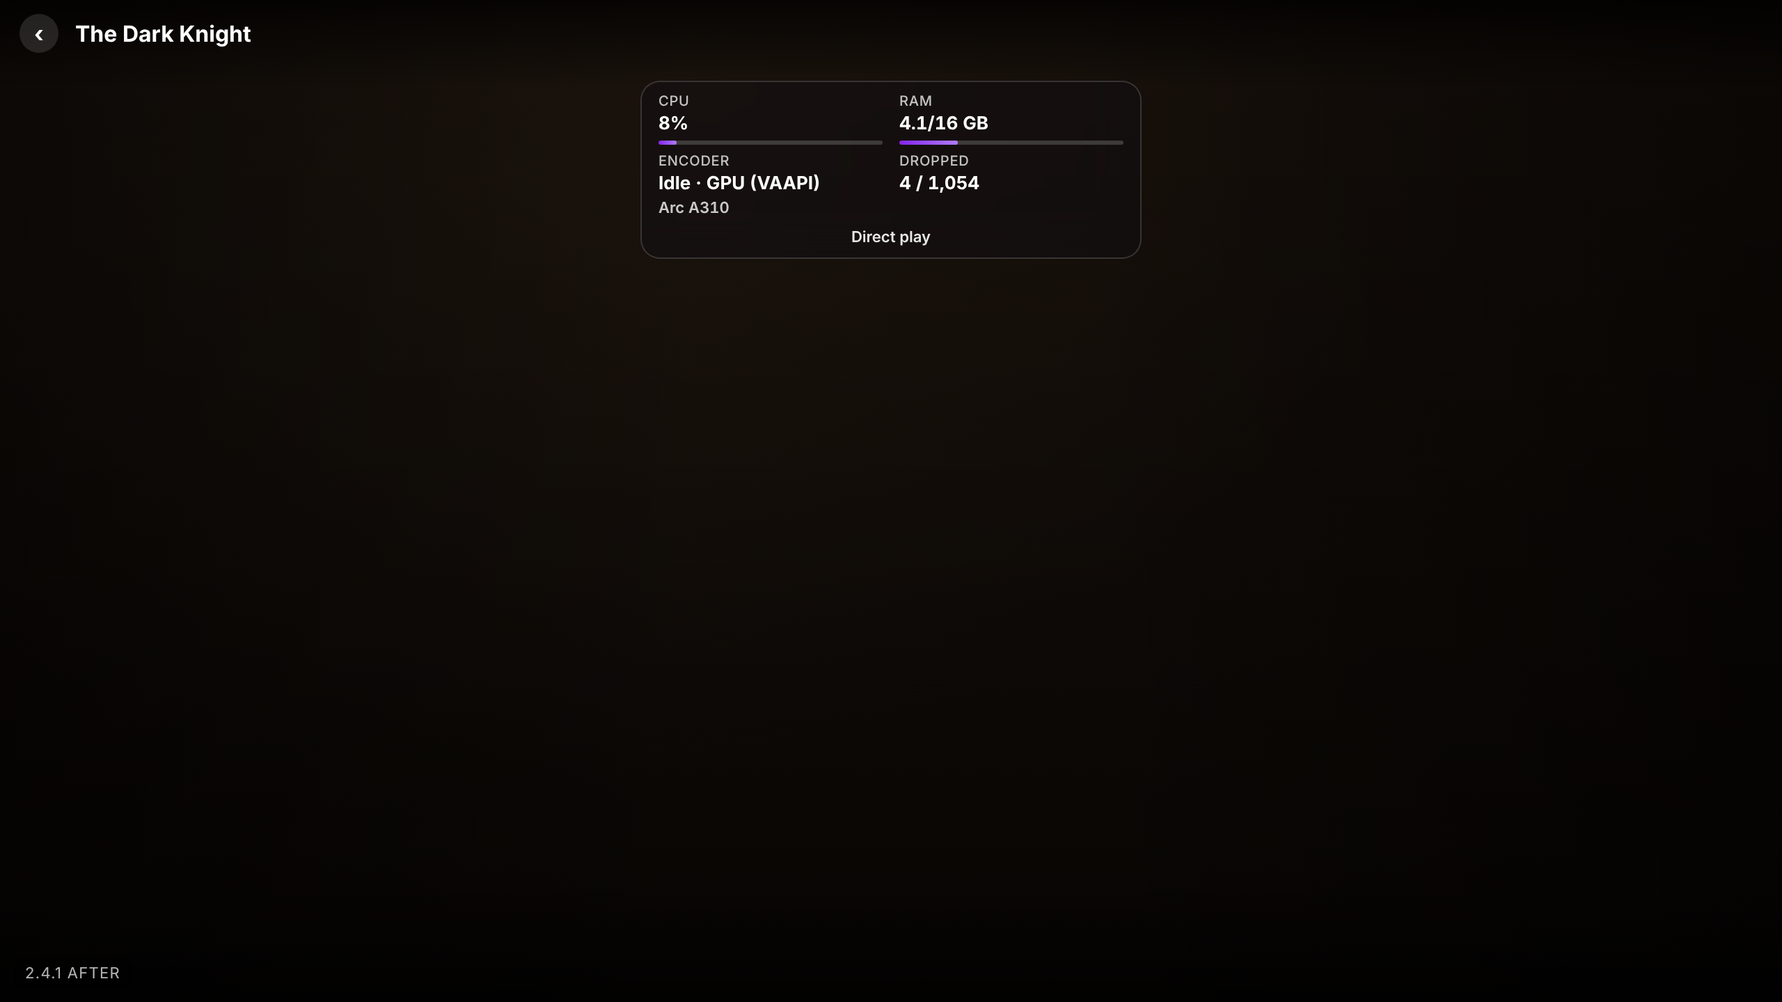
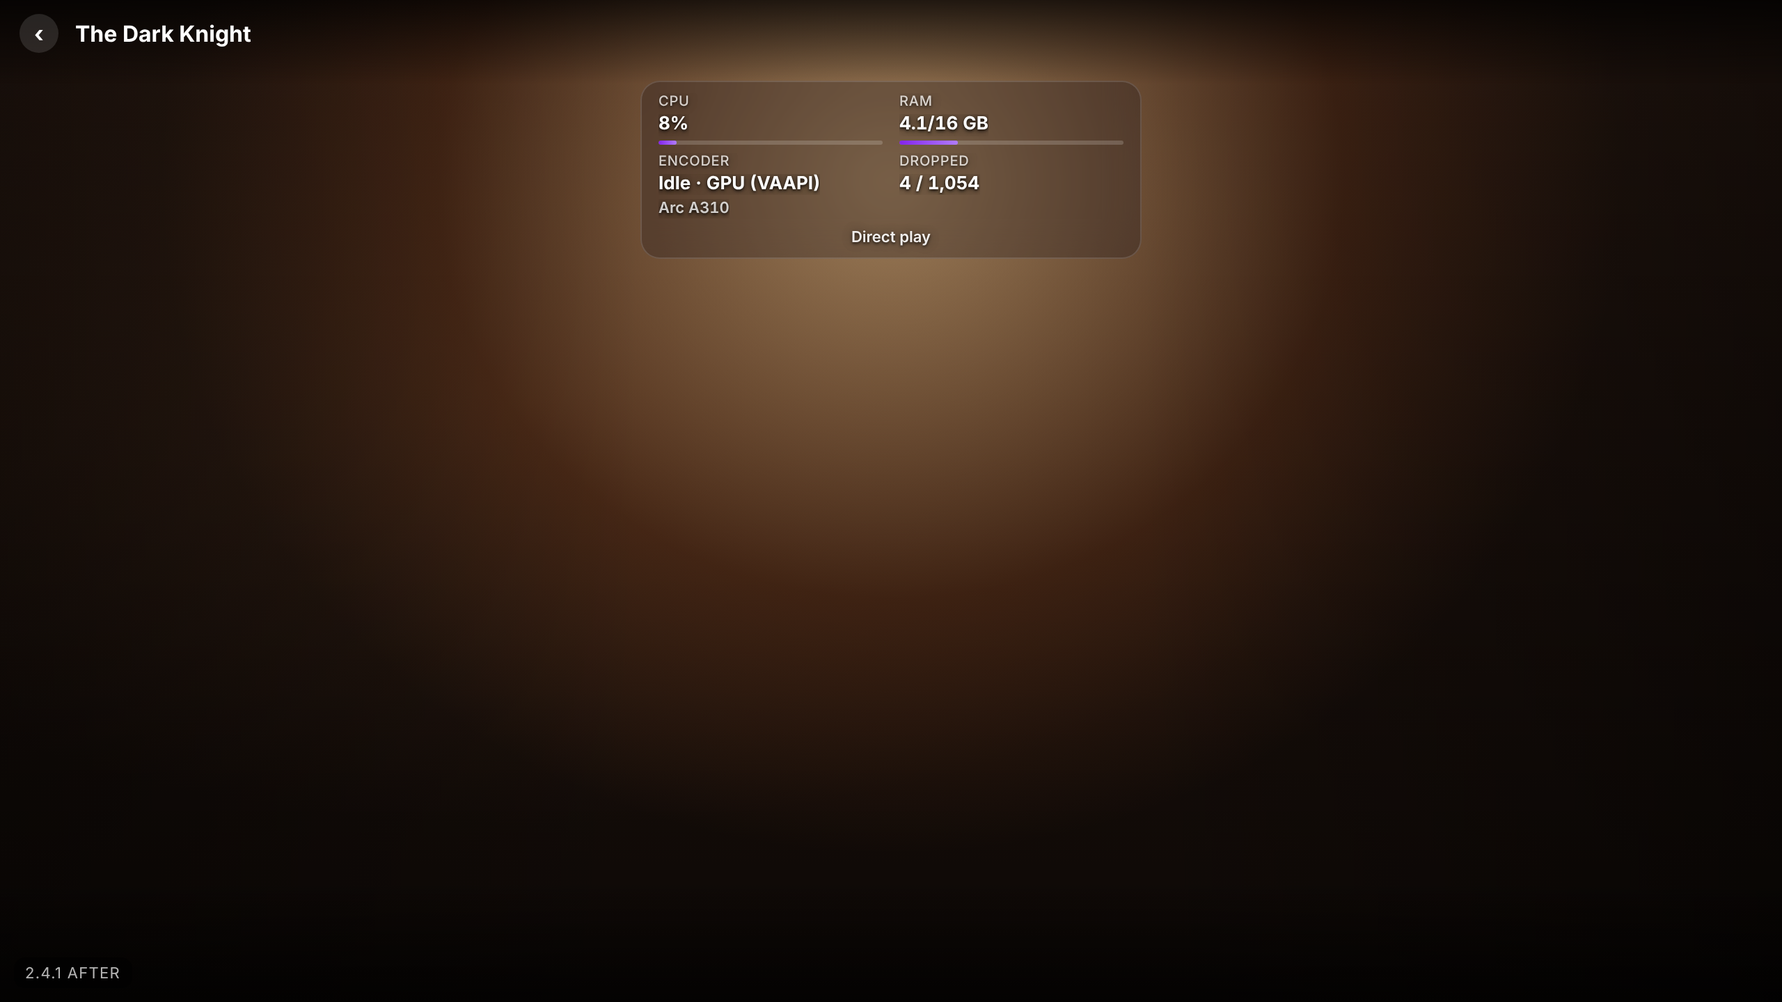
Movinite 2.4.1: make the player stats overlay more see-through
Lower the overlay fill from 38% to about 26%, keep a light backdrop
blur, and add a text shadow so CPU, RAM, Encoder and Dropped stay
readable on a bright scene. The Encoder/Dropped overlap fix is
unchanged. Still server-only.

diff --git a/server/app/static/style.css b/server/app/static/style.css
@@ -147,12 +147,14 @@ td .btn{margin:0 4px 4px 0}
 @media (min-width:821px){.pl-big{width:76px;height:76px}.pl-big.pl-pp{width:92px;height:92px}.pl-big svg{width:38px;height:38px}}
 /* see-through server status, top right of the picture; fades with the buttons */
 /* 1.7.5: glass stats panel under the title bar (top center, 2x2), fades with the controls.
-   The panel is see-through; the GPU badge stays the solid purple pill. */
+   The panel is see-through; the GPU badge stays the solid purple pill.
+   2.4.1: lighter fill (~26%) and a text shadow so the movie stays visible and labels stay readable. */
 .pl-ss{position:absolute;top:calc(var(--pltop,56px) + 2px);left:50%;transform:translateX(-50%);right:auto;z-index:3;
   display:grid;grid-template-columns:minmax(0,1fr) minmax(0,1fr);gap:6px 12px;padding:8px 12px;border-radius:14px;
   width:min(360px,calc(100% - 24px));max-width:min(360px,calc(100% - 24px));min-width:0;box-sizing:border-box;
-  font-size:12px;line-height:1.2;color:#fff;background:rgba(16,12,22,.38);-webkit-backdrop-filter:blur(14px);backdrop-filter:blur(14px);
-  border:1px solid rgba(255,255,255,.16);pointer-events:none;opacity:0;transition:opacity .25s ease;font-variant-numeric:tabular-nums}
+  font-size:12px;line-height:1.2;color:#fff;background:rgba(16,12,22,.26);-webkit-backdrop-filter:blur(12px);backdrop-filter:blur(12px);
+  border:1px solid rgba(255,255,255,.14);pointer-events:none;opacity:0;transition:opacity .25s ease;font-variant-numeric:tabular-nums;
+  text-shadow:0 1px 2px rgba(0,0,0,.85),0 0 8px rgba(0,0,0,.5)}
 .player.ov-on .pl-ss{opacity:1}
 .pl-ss .k{opacity:.75;font-weight:500;font-size:10px;letter-spacing:.04em;text-transform:uppercase}
 .pl-ss b{font-weight:700;font-size:13px}

diff --git a/server/tests/test_v175.py b/server/tests/test_v175.py
@@ -103,8 +103,11 @@ def main():
           "stats panel is a 2x2 grid")
     check("left:50%;transform:translateX(-50%)" in css[css.index(".pl-ss{"):css.index(".pl-ss{") + 400],
           "stats panel sits top-center under the title bar")
-    check("background:rgba(16,12,22,.38)" in css and "backdrop-filter:blur(14px)" in css[css.index(".pl-ss{"):css.index(".pl-ss{") + 700],
-          "stats panel uses a glass / translucent background")
+    import re
+    bg = re.search(r"background:rgba\(16,12,22,\.(0?\d+)\)", chunk)
+    check(bg and 18 <= int(bg.group(1)) <= 45, "stats panel uses a glass / translucent background")
+    check("backdrop-filter:blur(" in chunk and "text-shadow:" in chunk,
+          "stats panel keeps a subtle blur and a text shadow")
     check(".player.ov-on .pl-ss{opacity:1}" in css, "stats panel fades with the other controls")
     check(".pl-ss .hw-badge{background:var(--acc-fill);color:var(--on-acc)" in css,
           "GPU badge stays the solid purple pill")

diff --git a/server/tests/test_v241.py b/server/tests/test_v241.py
@@ -69,6 +69,13 @@ def test_overlay_layout():
           "narrow phone widths tighten the panel gap")
     check("white-space:nowrap" in CSS[CSS.index(".pl-ss-fr{"):CSS.index(".pl-ss-fr{") + 280],
           "the dropped-only pill still stays on one line")
+    import re
+    bg = re.search(r"background:rgba\(16,12,22,\.(\d+)\)", rule)
+    got = bg.group(1) if bg else "?"
+    check(bg and 18 <= int(bg.group(1)) <= 32,
+          "the stats panel fill is more see-through than the old 38 percent, now ." + got)
+    check("text-shadow:" in rule, "labels have a text shadow so they stay readable on a bright scene")
+    check("backdrop-filter:blur(" in rule, "a subtle backdrop blur is still applied")
 
 
 def test_render_uses_short_name():

diff --git a/README.md b/README.md
@@ -99,7 +99,7 @@ On servers with a supported video card, transcoding can run on the GPU.
 <img src="docs/screenshots/phone-offline-playing.png" width="200" alt="Phone playing a download offline">
 </p>
 
-*The screenshots use generated test media, placeholder posters, and made-up names at example.com. The 4K quality-menu shot was taken with **Cap quality to this screen** turned off, so 4K options stay visible; the tablet shot shows the default cap at 1080p. The 1.9 shots show Users and Invite, Email (Gmail app password), Activity, signed-in devices, Trusted proxies, and the join page, with documentation addresses such as 192.0.2.10. The 1.9.1 shot shows the Home row on a 1920×1080 television with the purple D-pad focus ring on a poster. The 2.0 shots show the 4K TV home and a movie page with Resume focused, the Downloads tab, the download dialog, Settings > Downloads, and the offline screens. The 2.0.1 shots show the video player on a television with the settings gear focused, and the settings menu open with an option focused. The 2.0.2 shots show TV sign-in with a short code and QR code, approving it from a phone, and reaching Sign out with the remote. The 2.1 shots show the Plex-style TV home and slide-out menu (libraries labelled with their source, including a library shared by another server) and Settings > Sharing. The 2.1.1 shots show a signed-out television with only the phone-code sign-in screen, and the top bar (TV tab bar and desktop header) in the same dark color as the side menu. The 2.1.2 shots show the TV tab bar transparent over the backdrop, the slide-out menu with Sign out, and a movie page opened at the top with Resume or Play focused. The 2.1.3 shots show the signed-out TV phone-code sign-in screen and the password fallback. The 2.2 shots show the player start overlay, the Up Next card, a seek-bar thumbnail, and the Transcoding settings for HDR tone mapping (off by default) and the thumbnail cache. The 2.3 shots show the Skip Intro button on the web and on a television, and image subtitles burned into a transcode. The 2.4 shots are UI mockups of the native Android TV player (controls, subtitle menu, and Skip Intro), not captures from a real television. The 2.4.1 shots show the in-page player stats overlay on a phone, before and after the Encoder column was stopped from running over Dropped.*
+*The screenshots use generated test media, placeholder posters, and made-up names at example.com. The 4K quality-menu shot was taken with **Cap quality to this screen** turned off, so 4K options stay visible; the tablet shot shows the default cap at 1080p. The 1.9 shots show Users and Invite, Email (Gmail app password), Activity, signed-in devices, Trusted proxies, and the join page, with documentation addresses such as 192.0.2.10. The 1.9.1 shot shows the Home row on a 1920×1080 television with the purple D-pad focus ring on a poster. The 2.0 shots show the 4K TV home and a movie page with Resume focused, the Downloads tab, the download dialog, Settings > Downloads, and the offline screens. The 2.0.1 shots show the video player on a television with the settings gear focused, and the settings menu open with an option focused. The 2.0.2 shots show TV sign-in with a short code and QR code, approving it from a phone, and reaching Sign out with the remote. The 2.1 shots show the Plex-style TV home and slide-out menu (libraries labelled with their source, including a library shared by another server) and Settings > Sharing. The 2.1.1 shots show a signed-out television with only the phone-code sign-in screen, and the top bar (TV tab bar and desktop header) in the same dark color as the side menu. The 2.1.2 shots show the TV tab bar transparent over the backdrop, the slide-out menu with Sign out, and a movie page opened at the top with Resume or Play focused. The 2.1.3 shots show the signed-out TV phone-code sign-in screen and the password fallback. The 2.2 shots show the player start overlay, the Up Next card, a seek-bar thumbnail, and the Transcoding settings for HDR tone mapping (off by default) and the thumbnail cache. The 2.3 shots show the Skip Intro button on the web and on a television, and image subtitles burned into a transcode. The 2.4 shots are UI mockups of the native Android TV player (controls, subtitle menu, and Skip Intro), not captures from a real television. The 2.4.1 shots show the in-page player stats overlay on a phone, before and after the Encoder column was stopped from running over Dropped and the box was made more see-through.*
 
 ## Features
 
@@ -111,7 +111,7 @@ On servers with a supported video card, transcoding can run on the GPU.
 - **Playback in the browser:** direct play, remux (including HEVC to fMP4) or HLS transcode with quality choices (360p to 1080p, plus 2K/4K with a GPU). Auto quality prefers direct play or remux over a transcode. Subtitles (`.srt`, embedded) are see-through and stay on after a seek or quality change; pinch to fit or fill the picture on a phone. The music player has a beat-reactive visualizer, playlists with Play and Shuffle (and play-from-track), mute and a reachable volume control, and a 10-band equalizer with presets (including Dynamic). The top bar, mini player and phone tab bar use the same frosted glass as the server status popup.
 - **Hardware transcoding:** Intel VAAPI/QSV (plus AMD VAAPI and NVIDIA NVENC, both untested). Video cards are detected on install. Concurrent 4K streams use extra GPU surfaces and the card's low-power encoder; a stream that cannot stay on the GPU falls back once and stays there, with the reason logged. The same account can play on more than one device at a time.
 - **Home rows** (Continue watching, Recently added, Recommended), My List, search, genres, decades, tags and collections.
-- **Phone layout** with a bottom tab bar and filter sheets, plus an installable web app (PWA) and a native **Android app**. On a television, a D-pad moves a purple focus ring across libraries, poster rows and player controls (1.9.1). Opening a title focuses Resume or Play (1.9.2), and the TV layout is authored at 1920×1080 so a 4K set is not zoomed in. While a film is playing, the remote reaches every player control, including the settings gear at the bottom right (2.0.1). A TV can sign in by scanning a code with a phone that's already signed in, stays signed in, and the remote reaches the account menu and Sign out (2.0.2). On a TV, 2.1 uses a Plex-style home: a backdrop of the focused title, a slim left rail that slides out into a full menu, and tabs across the top. In 2.1.1 a signed-out TV shows only the sign-in screen, sign-in codes are reused until they expire, and the top bar uses the same dark color as the side menu. In 2.1.2 the web header is hidden on a television, the TV tab bar is transparent, moving the remote onto a tab or menu item opens that view without OK (Sign out still needs OK), and opening a title keeps Resume or Play on screen. In 2.1.3 the TV checks for phone approval about every 3 seconds, backs off instead of showing “Too many checks,” and stops checking when you open the password form. In 2.1.4 the first Left from a row focuses the slim left rail and a second Left opens the slide-out; the top tabs are selectable. In 2.4 the Android TV app plays video in a native ExoPlayer (the 2.0.2 app still works against this server with the in-page player). In 2.4.1 the in-page player stats overlay shortens the GPU name so Encoder no longer runs over Dropped.
+- **Phone layout** with a bottom tab bar and filter sheets, plus an installable web app (PWA) and a native **Android app**. On a television, a D-pad moves a purple focus ring across libraries, poster rows and player controls (1.9.1). Opening a title focuses Resume or Play (1.9.2), and the TV layout is authored at 1920×1080 so a 4K set is not zoomed in. While a film is playing, the remote reaches every player control, including the settings gear at the bottom right (2.0.1). A TV can sign in by scanning a code with a phone that's already signed in, stays signed in, and the remote reaches the account menu and Sign out (2.0.2). On a TV, 2.1 uses a Plex-style home: a backdrop of the focused title, a slim left rail that slides out into a full menu, and tabs across the top. In 2.1.1 a signed-out TV shows only the sign-in screen, sign-in codes are reused until they expire, and the top bar uses the same dark color as the side menu. In 2.1.2 the web header is hidden on a television, the TV tab bar is transparent, moving the remote onto a tab or menu item opens that view without OK (Sign out still needs OK), and opening a title keeps Resume or Play on screen. In 2.1.3 the TV checks for phone approval about every 3 seconds, backs off instead of showing “Too many checks,” and stops checking when you open the password form. In 2.1.4 the first Left from a row focuses the slim left rail and a second Left opens the slide-out; the top tabs are selectable. In 2.4 the Android TV app plays video in a native ExoPlayer (the 2.0.2 app still works against this server with the in-page player). In 2.4.1 the in-page player stats overlay shortens the GPU name so Encoder no longer runs over Dropped, and the box is more see-through.
 - **Multiple users** with Admin, Viewer, and Viewer + Downloads roles, per-library access, email invites sent from your own Gmail (or a copyable link and QR code), a signed-in device list, and Settings > Activity (now playing and a timeline). Existing accounts keep their access after the update. A themed server status panel shows CPU and RAM icons and rings, disks, idle GPU, and background cache jobs that pause when you press play.
 - **Library sharing between servers (2.1):** an admin shares one or more libraries with another Movinite server by sending a one-time link and code. After that, the two servers trust each other with signed requests (no central service). Shared libraries appear in the other server's list, search, home and TV menu, labelled with the owner's name. Public addresses must use HTTPS (for example `https://media.example.com`); a LAN address may use plain HTTP (for example `http://192.0.2.10:8099`).
 - **Offline downloads (2.0, Android app):** people with Viewer + Downloads (and admins) can download films and episodes to the app, play them with the phone's network off, and manage devices and quotas from Settings > Downloads or My account. Downloads are encrypted on the phone; licences last 30 days and can be taken back.

diff --git a/server/README.md b/server/README.md
@@ -207,7 +207,7 @@ On a television, Up from the first row reaches the header. Left and Right move a
 
 **2.1.1:** a signed-out television shows only the phone-code (or password) sign-in screen, not the home chrome. Sign-in codes are reused until they expire (10 new codes per address per 10 minutes). The top bar uses the same dark color as the side menu.
 
-**2.4.1:** the in-page player stats overlay shortens the GPU name (for example Arc A310) so Encoder no longer runs over Dropped on a phone. No new app is needed. **2.4:** the Android TV app plays video in a native ExoPlayer (not the web page). It reports real decoder and display capabilities so 4K HEVC, HDR and surround can Direct Play when the television supports them, and the on-screen controls include skip intro, seek thumbnails, Up Next, and audio / subtitle menus. The 2.0.2 app still works against this server, with the in-page player. **2.3:** Skip Intro and Skip Credits buttons appear when an opening or ending is detected (optional auto-skip in Settings > Account). Image subtitles (PGS / VobSub) are burned in on a transcode when you pick them; text subtitles stay soft. **2.2:** playback starts immediately when remux is not ready, 5.1 audio is kept, the seek bar can show thumbnails, an Up Next card counts down before the next episode, and a 4K television is not capped at 1080p just because the web view reports 1920×1080. HDR to SDR tone mapping on the GPU is available in Settings (off by default until it is checked on a real HDR film). The 2.0.2 Android TV app works as-is. **2.1.4:** the first Left from a row focuses the slim left rail; a second Left opens the slide-out. The For You / Recently Added / Libraries tabs and the rail icons take a visible focus and can be selected with the remote. Hero backdrops wait a beat and crossfade, and home-screen key handling is faster. Desktop and phone are unchanged, and opening a title still focuses Resume or Play at the top. **2.1.3:** the TV waits about 3 seconds between approval checks, backs off instead of showing “Too many checks,” and stops checking when you open the password form. The check limit is per code and address, and is large enough for a 10-minute code. **2.1.2:** the web header (search, poster sounds, server status, account button) is hidden on a television. Desktop and phone keep it. Search, Sign out and Settings stay in the slide-out menu. The TV tab bar is transparent over the backdrop. Moving the remote onto a tab or a menu item opens that view after a short pause (Sign out still needs OK). Opening a title focuses Resume or Play with the page scrolled to the top.
+**2.4.1:** the in-page player stats overlay shortens the GPU name (for example Arc A310) so Encoder no longer runs over Dropped on a phone, and the box is more see-through so more of the picture shows through. No new app is needed. **2.4:** the Android TV app plays video in a native ExoPlayer (not the web page). It reports real decoder and display capabilities so 4K HEVC, HDR and surround can Direct Play when the television supports them, and the on-screen controls include skip intro, seek thumbnails, Up Next, and audio / subtitle menus. The 2.0.2 app still works against this server, with the in-page player. **2.3:** Skip Intro and Skip Credits buttons appear when an opening or ending is detected (optional auto-skip in Settings > Account). Image subtitles (PGS / VobSub) are burned in on a transcode when you pick them; text subtitles stay soft. **2.2:** playback starts immediately when remux is not ready, 5.1 audio is kept, the seek bar can show thumbnails, an Up Next card counts down before the next episode, and a 4K television is not capped at 1080p just because the web view reports 1920×1080. HDR to SDR tone mapping on the GPU is available in Settings (off by default until it is checked on a real HDR film). The 2.0.2 Android TV app works as-is. **2.1.4:** the first Left from a row focuses the slim left rail; a second Left opens the slide-out. The For You / Recently Added / Libraries tabs and the rail icons take a visible focus and can be selected with the remote. Hero backdrops wait a beat and crossfade, and home-screen key handling is faster. Desktop and phone are unchanged, and opening a title still focuses Resume or Play at the top. **2.1.3:** the TV waits about 3 seconds between approval checks, backs off instead of showing “Too many checks,” and stops checking when you open the password form. The check limit is per code and address, and is large enough for a 10-minute code. **2.1.2:** the web header (search, poster sounds, server status, account button) is hidden on a television. Desktop and phone keep it. Search, Sign out and Settings stay in the slide-out menu. The TV tab bar is transparent over the backdrop. Moving the remote onto a tab or a menu item opens that view after a short pause (Sign out still needs OK). Opening a title focuses Resume or Play with the page scrolled to the top.
 
 On a TV, Movinite uses a Plex-style home: a large backdrop of the focused title, details and a short synopsis, a slim icon rail on the left that slides out into a full menu, tabs across the top, and rows of posters underneath. The menu lists your libraries as *Movies / NAS* (or the share's real name), and shared libraries from another server as *Movies / Harbor*. Desktop and phone layouts are unchanged. The 2.4 Android TV app adds a native player; a 2.0.2 app still works against this server (in-page player). The TV home layout still comes from the server.
 

diff --git a/CHANGELOG.md b/CHANGELOG.md
@@ -4,6 +4,7 @@
 A small layout fix on top of 2.4 (schema stays 14; no database upgrade). No new Android app is needed.
 
 - **The player stats overlay keeps each value in its own column.** On a phone (and any other narrow width) the Encoder line used to print the full PCI name of the video card — for example `Idle · GPU (VAAPI) (Intel Corporation DG2 [Arc A310])` — and run over the Dropped count. The visible name is now a short label such as `Arc A310`, on a second line, with the full name in a tooltip. The 2×2 grid can shrink (`minmax(0, 1fr)` and `min-width: 0`), and cell text wraps or ellipsizes instead of painting over the next column. This is the in-page (WebView) player used by the phone app, desktop browsers, and a 2.0.2 TV app. The native 2.4 player has no stats overlay, so no new APK is included.
+- **The same overlay is more see-through.** The fill is about 26% opaque (it was 38%), with a light blur and a text shadow so CPU, RAM, Encoder and Dropped stay readable on a bright scene, and more of the picture shows through.
 
 The 2.4 native player, 2.3 Skip Intro / image-subtitle burn-in, 2.2 playback behaviour, and 2.1.4 TV remote navigation are unchanged.
 

diff --git a/server/CHANGELOG.md b/server/CHANGELOG.md
@@ -4,6 +4,7 @@
 A small layout fix on top of 2.4 (schema stays 14; no database upgrade). No new Android app is needed.
 
 - **The player stats overlay keeps each value in its own column.** On a phone (and any other narrow width) the Encoder line used to print the full PCI name of the video card — for example `Idle · GPU (VAAPI) (Intel Corporation DG2 [Arc A310])` — and run over the Dropped count. The visible name is now a short label such as `Arc A310`, on a second line, with the full name in a tooltip. The 2×2 grid can shrink (`minmax(0, 1fr)` and `min-width: 0`), and cell text wraps or ellipsizes instead of painting over the next column. This is the in-page (WebView) player used by the phone app, desktop browsers, and a 2.0.2 TV app. The native 2.4 player has no stats overlay, so no new APK is included.
+- **The same overlay is more see-through.** The fill is about 26% opaque (it was 38%), with a light blur and a text shadow so CPU, RAM, Encoder and Dropped stay readable on a bright scene, and more of the picture shows through.
 
 The 2.4 native player, 2.3 Skip Intro / image-subtitle burn-in, 2.2 playback behaviour, and 2.1.4 TV remote navigation are unchanged.
 

diff --git a/docs/screenshots/2.4.1/README.md b/docs/screenshots/2.4.1/README.md
@@ -1,3 +1,3 @@
 # 2.4.1 screenshots
 
-Before/after of the in-page player stats overlay on a phone (360px portrait and landscape). The Encoder column used to overflow onto Dropped; 2.4.1 keeps each value in its cell. `after-desktop-1280.png` and `after-tv-1920.png` confirm the same layout at larger widths. These are staged UI previews, not captures from a device.
+Before/after of the in-page player stats overlay on a phone (360px portrait and landscape). The Encoder column used to overflow onto Dropped; 2.4.1 keeps each value in its cell and makes the box more see-through (about 26% fill, with a text shadow so labels stay readable). `after-desktop-1280.png` and `after-tv-1920.png` confirm the same layout at larger widths. These are staged UI previews, not captures from a device.
